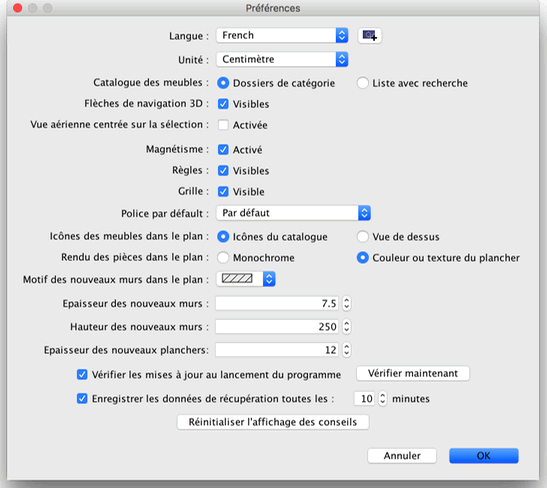
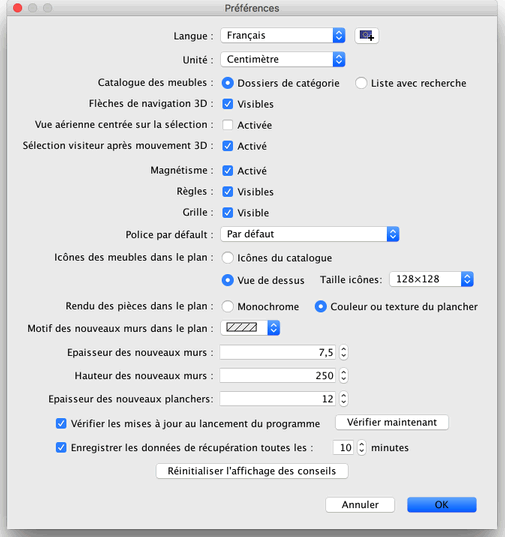
Updated help for version 5.5
git-svn-id: https://svn.code.sf.net/p/sweethome3d/code/trunk@6162 03e323e1-6c6c-46a5-9f71-c4ce5d8c6204

diff --git a/com/eteks/sweethome3d/viewcontroller/resources/help/fr/editingPreferences.html b/com/eteks/sweethome3d/viewcontroller/resources/help/fr/editingPreferences.html
@@ -33,15 +33,29 @@
 	    de Sweet Home 3D et le bouton &agrave; sa droite d'importer des fichiers de langues avec une extensions SH3L.<br>
 	    La liste d&eacute;roulante <i>Unit&eacute;</i> vous permet de choisir l'unit&eacute; utilis&eacute;e
 	    pour dessiner les r&egrave;gles et la grille du plan du
-	    logement, ainsi que pour afficher les longueurs et les aires.	Pour le syst&egrave;me m&eacute;trique, vous pouvez choisir le <i>Millim&egrave;tre</i>, le <i>Centim&egrave;tre</i> ou le  <i>M&egrave;tre</i>, et le syst&egrave;me imp&eacute;rial propose les deux unit&eacute;s suivantes&nbsp;: l'unit&eacute; <i>Pouce/D&eacute;cimales</i> qui affiche une longueur seulement en pouces suivie des d&eacute;cimales de pouce, comme dans <b>250.122&quot;</b> et l'unit&eacute; <i>Pied/Pouce/Fraction</i> qui affiche une longueur en pieds et pouces suivie de la fraction d'un huiti&egrave;me de pouce la plus proche, comme dans <b>20'10&#8539;&quot;</b>. Dans le dernier cas, une partie fractionnaire saisie avec des d&eacute;cimales et une valeur en pouce sup&eacute;rieure ou &eacute;gale &agrave; 12 seront automatiquement converties&nbsp;; par exemple, si vous saisissez <b>15.75</b>, le programme comprendra <b>1'3&#190&quot;</b>, et pour  <b>2'15</b>, ce sera interpr&eacute;t&eacute; comme <b>3'3&quot;</b>. Vous pouvez utiliser aussi le symbole <b>/</b> dans la fraction apr&egrave;s une valeur en pouce, comme dans <b>1 3/4</b>, que le programme interpr&eacute;tera comme <b>1&#190&quot;</b>. Pour les aires, l'unit&eacute; <i>Pied/Pouce/Fraction</i> affiche toujours la valeur la plus proche en pieds carr&eacute;, tandis que l'unit&eacute; <i>Pouce/D&eacute;cimales</i> affiche des d&eacute;cimales 
+	    logement, ainsi que pour afficher les longueurs et les aires.	Pour le syst&egrave;me m&eacute;trique, vous pouvez choisir le <i>Millim&egrave;tre</i>, 
+	    le <i>Centim&egrave;tre</i> ou le  <i>M&egrave;tre</i>, et le syst&egrave;me imp&eacute;rial propose les deux unit&eacute;s suivantes&nbsp;: 
+	    l'unit&eacute; <i>Pouce/D&eacute;cimales</i> qui affiche une longueur seulement en pouces suivie des d&eacute;cimales de pouce, comme dans <b>250.122&quot;</b> 
+	    et l'unit&eacute; <i>Pied/Pouce/Fraction</i> qui affiche une longueur en pieds et pouces suivie de la fraction d'un huiti&egrave;me de pouce la plus proche, 
+	    comme dans <b>20'10&#8539;&quot;</b>. Dans le dernier cas, une partie fractionnaire saisie avec des d&eacute;cimales et une valeur en pouce sup&eacute;rieure 
+	    ou &eacute;gale &agrave; 12 seront automatiquement converties&nbsp;; par exemple, si vous saisissez <b>15.75</b>, le programme comprendra <b>1'3&#190&quot;</b>, 
+	    et pour  <b>2'15</b>, ce sera interpr&eacute;t&eacute; comme <b>3'3&quot;</b>. Vous pouvez utiliser aussi le symbole <b>/</b> dans la fraction apr&egrave;s une valeur en pouce, 
+	    comme dans <b>1 3/4</b>, que le programme interpr&eacute;tera comme <b>1&#190&quot;</b>. Pour les aires, l'unit&eacute; <i>Pied/Pouce/Fraction</i> affiche toujours 
+	    la valeur la plus proche en pieds carr&eacute;, tandis que l'unit&eacute; <i>Pouce/D&eacute;cimales</i> affiche des d&eacute;cimales 
 	    si besoin.</p>
-<p> Les boutons radio <i>Dossiers de cat&eacute;gorie </i>et <i>Liste 
+		<p> Les boutons radio <i>Dossiers de cat&eacute;gorie </i>et <i>Liste 
           avec recherche </i>permettent de choisir le mode d'affichage du catalogue 
-          de meubles dans chaque <a href="ui.html">fen&ecirc;tre Sweet Home 3D</a>.        </p>
-	    <p>	      La bo&icirc;te &agrave; cocher <i>Fl&egrave;ches de navigation 3D</i> permet d'afficher ou non les boutons en forme de fl&egrave;ches d'aide 
+          de meubles dans chaque <a href="ui.html">fen&ecirc;tre Sweet Home 3D</a>.</p>
+	    <p>La bo&icirc;te &agrave; cocher <i>Fl&egrave;ches de navigation 3D</i> permet d'afficher ou non les boutons en forme de fl&egrave;ches d'aide 
           &agrave; la <a href="editing3DView.html">navigation dans la vue 3D</a>.<br>
-          Quand elle est activ&eacute;e, l'option <i>Vue a&eacute;rienne centr&eacute;e sur la s&eacute;lection</i> centrera la vue a&eacute;rienne 3D sur les &eacute;l&eacute;ments s&eacute;lectionn&eacute;s dans le plan 2D. Si aucun &eacute;l&eacute;ment n'est s&eacute;lectionn&eacute; ou si cette option est d&eacute;sactiv&eacute;e, 
-          la vue a&eacute;rienne sera centr&eacute;e sur le mileu du logement, qui peut changer en fonction de son contenu.</p>
+          Quand elle est activ&eacute;e, l'option <i>Vue a&eacute;rienne centr&eacute;e sur la s&eacute;lection</i> centrera 
+          la vue a&eacute;rienne 3D sur les &eacute;l&eacute;ments s&eacute;lectionn&eacute;s dans le plan 2D. 
+          Si aucun &eacute;l&eacute;ment n'est s&eacute;lectionn&eacute; ou si cette option est d&eacute;sactiv&eacute;e, 
+          la vue a&eacute;rienne sera centr&eacute;e sur le mileu du logement, qui peut changer en fonction de son contenu.<br>
+          Quand elle est activ&eacute;e, l'option <i>S&eacute;lection visiteur apr&egrave;s mouvement 3D</i> entra&icirc;nera 
+          une s&eacute;lection et un affichage du visiteur virtuel dans le plan 2D &agrave; chaque fois que vous faites un mouvement 
+          dans la vue 3D en mode <i>Visite virtuelle</i>. D&eacute;s&eacute;lectionnez cette option si vous ne voulez pas perdre 
+          la s&eacute;lection en cours dans le plan et/ou modifier la zone visible du plan &agrave; chaque mouvement dans la vue 3D.</p>
 	    <p>La bo&icirc;te &agrave; cocher <i>Magn&eacute;tisme</i> active ou 
           d&eacute;sactive le magn&eacute;tisme utilis&eacute; dans le plan du 
           logement au cours du positionnement des meubles, et du dessin des murs, des pi&egrave;ces et des cotes.<br>
@@ -50,10 +64,16 @@
           &agrave; gauche du plan.<br>
           La bo&icirc;te &agrave; cocher <i>Grille</i> permet de rendre visible 
           ou invisible la grille affich&eacute;e sous le plan.<br>
-          La liste d&eacute;roulante <i>Police par d&eacute;faut</i> permet de choisir la police de caract&egrave;re utilis&eacute;e pour les textes affich&eacute;s dans le plan (i.e. nom des <a href="editingFurniture.html">meubles</a>, nom et superficie des <a href="editingRooms.html">pi&egrave;ces</a>, longueur des <a href="editingDimensions.html">cotes</a> et police par d&eacute;faut des <a href="addingTexts.html">textes</a>).<br>
+          La liste d&eacute;roulante <i>Police par d&eacute;faut</i> permet de choisir la police de caract&egrave;re utilis&eacute;e 
+          pour les textes affich&eacute;s dans le plan (i.e. nom des <a href="editingFurniture.html">meubles</a>, nom et superficie 
+          des <a href="editingRooms.html">pi&egrave;ces</a>, longueur des <a href="editingDimensions.html">cotes</a> 
+          et police par d&eacute;faut des <a href="addingTexts.html">textes</a>).<br>
           Les boutons radio <i>Ic&ocirc;nes du catalogue</i> et <i>Vue de dessus</i> 
           permettent de choisir comment seront dessin&eacute;s les meubles dans 
-          le plan (voir les images ci-dessous).<br>
+          le plan (voir les images ci-dessous). Quand l'option <i>Vue de dessus</i> est s&eacute;lectionn&eacute;e, la liste d&eacute;roulante 
+          <i>Taille ic&ocirc;nes</i> vous permet de choisir la taille en pixel des ic&ocirc;nes dessin&eacute;es dans le plan 2D. 
+          Une taille plus grande donnera un meilleur r&eacute;sultat dans les plans dessin&eacute;s &agrave; l'&eacute;cran, imprim&eacute;s 
+          et export&eacute;s au format SVG, mais requ&eacute;rera plus de m&eacute;moire pour fonctionner.<br>
           Les boutons radio <i></i><i>Monochrome</i> et <i>Couleur ou texture 
           du plancher</i> permettent de choisir si les pi&egrave;ces doivent &ecirc;tre 
           remplies dans le plan avec la couleur ou de la texture que vous avez 
@@ -64,9 +84,11 @@
 	        une fois que le panneau des pr&eacute;f&eacute;rences sera ferm&eacute;.<br>
           La valeur de la <i>Hauteur des nouveaux murs</i> d&eacute;termine la hauteur des futurs murs.<br>
           La valeur de l'<i>Epaisseur des nouveaux planchers</i> d&eacute;termine l'&eacute;paisseur des planchers des futurs niveaux.</p>
-<p>Si elle est s&eacute;lectionn&eacute;e, l'option <i>V&eacute;rifier les mises &agrave; jour au lancement du programme</i> v&eacute;rifiera si des mises &agrave; jours de Sweet Home 3D sont disponibles ou non &agrave; chaque fois que le programme est  lanc&eacute;, 
-  et affichera des informations sur celles-ci dans une bo&icirc;te de dialogue. Cette option v&eacute;rifie aussi la disponibilit&eacute; de mises &agrave; jours pour les biblioth&egrave;ques de meubles (fichiers SH3F), les biblioth&egrave;ques de textures (fichiers SH3T), les fichiers de langues (fichiers SH3L) et les plug-ins 
-  (fichiers SH3P) que vous avez install&eacute;s, en fonction de leur configuration. </p>	  
+		<p>Si elle est s&eacute;lectionn&eacute;e, l'option <i>V&eacute;rifier les mises &agrave; jour au lancement du programme</i> v&eacute;rifiera si des mises &agrave; jours 
+		  de Sweet Home 3D sont disponibles ou non &agrave; chaque fois que le programme est  lanc&eacute;, 
+  		  et affichera des informations sur celles-ci dans une bo&icirc;te de dialogue. Cette option v&eacute;rifie aussi la disponibilit&eacute; de mises &agrave; jours 
+  		  pour les biblioth&egrave;ques de meubles (fichiers SH3F), les biblioth&egrave;ques de textures (fichiers SH3T), les fichiers de langues (fichiers SH3L) et les plug-ins 
+  		  (fichiers SH3P) que vous avez install&eacute;s, en fonction de leur configuration. </p>	  
 	  <p>La valeur du champ associ&eacute; &agrave; la bo&icirc;te &agrave; 
           cocher <i>Enregistrer les donn&eacute;es de r&eacute;cup&eacute;ration</i> 
           d&eacute;termine le d&eacute;lai en minutes qui s'&eacute;coule entre 
@@ -151,7 +173,8 @@
               <td width="16"><p>&#149;</p></td>
               <td><p>Les  informations sur les mises &agrave; jour ne peuvent &ecirc;tre obtenues que si votre ordinateur a acc&egrave;s &agrave; Internet. 
               En cas de doute, cliquez sur le bouton <i>V&eacute;rifier maintenant</i> pour afficher les mises &agrave; jour disponibles, 
-              ou un message sp&eacute;cifiant qu'aucune mise &agrave; jour n'est disponible, ou un message d'erreur stipulant que les mises &agrave; jour n'ont pu &ecirc;tre lues.</p></td>
+              ou un message sp&eacute;cifiant qu'aucune mise &agrave; jour n'est disponible, ou un message d'erreur stipulant que les mises &agrave; jour 
+              n'ont pu &ecirc;tre lues.</p></td>
             </tr>
           </table></td>
 	</tr>

diff --git a/com/eteks/sweethome3d/viewcontroller/resources/help/fr/editingFurniture.html b/com/eteks/sweethome3d/viewcontroller/resources/help/fr/editingFurniture.html
@@ -72,14 +72,15 @@
                       <td nowrap><p>1.</p>
                       </td>
                       <td><p>L'indicateur de rotation montre le coin que vous pouvez glisser-d&eacute;poser pour tourner le meuble
-                          s&eacute;lectionn&eacute;.</p>
+                          s&eacute;lectionn&eacute; autour de l'axe vertical.</p>
                       </td>
                     </tr>
                     <tr valign="top">
                       <td nowrap><p>2.</p>
                       </td>
                       <td><p>L'indicateur d'&eacute;l&eacute;vation montre le coin que vous pouvez glisser-d&eacute;poser pour monter ou descendre
-                          le meuble s&eacute;lectionn&eacute; (par rapport &agrave; l'&eacute;l&eacute;vation du niveau auquel le meuble a &eacute;t&eacute; ajout&eacute; si le logement contient <a href="addingLevels.html">plusieurs niveaux</a>).</p>
+                          le meuble s&eacute;lectionn&eacute; (par rapport &agrave; l'&eacute;l&eacute;vation du niveau auquel le meuble a 
+                          &eacute;t&eacute; ajout&eacute; si le logement contient <a href="addingLevels.html">plusieurs niveaux</a>).</p>
                       </td>
                     </tr>
                     <tr valign="top">
@@ -87,10 +88,10 @@
                       </td>
                       <td><p>L'indicateur de hauteur montre le coin que vous pouvez 
                   glisser-d&eacute;poser pour modifier la hauteur du meuble s&eacute;lectionn&eacute;.<br>
-                  Pour les lumi&egrave;res (soit une source lumineuse ou une lampe 
-                  contenant des sources lumineuses), cet indicateur devient un 
-                  variateur de lumi&egrave;re. Si vous voulez modifier la hauteur 
-                  de cette lumi&egrave;re, &eacute;ditez ses attributs comme indiqu&eacute; 
+                  Si l'angle de rotation du meuble autour d'un axe horizontal n'est pas nul, cet indicateur vous permet de modifier 
+                  cet angle plut&ocirc;t que la hauteur du meuble. Pour les lumi&egrave;res (soit une source lumineuse ou une lampe 
+                  contenant des sources lumineuses), cet indicateur devient un variateur de lumi&egrave;re. Si vous voulez modifier la hauteur 
+                  de ces objets, &eacute;ditez ses attributs comme indiqu&eacute; 
                   dans le paragraphe suivant.</p>
                 </td>
                     </tr>
@@ -98,7 +99,9 @@
                       <td nowrap><p>4.</p>
                       </td>
                       <td><p>L'indicateur de taille montre le coin que vous pouvez glisser-d&eacute;poser pour modifier
-                          la largeur et la profondeur du meuble s&eacute;lectionn&eacute;.</p>
+                          la largeur et la profondeur du meuble s&eacute;lectionn&eacute;. L'utilisation de cet indicateur sur un 
+                          meuble pivot&eacute; autour d'un axe horizontal ou en maintenant la touche <i>Majuscule</i> enfonc&eacute;e
+                          modifiera proportionnellement la largeur, la profondeur et la hauteur du meuble s&eacute;lectionn&eacute;.</p>
                       </td>
                     </tr>
                   </table>
@@ -115,13 +118,14 @@ Les meubles modifi&eacute;s avec la souris sont dessin&eacute;s simultan&eacute;
 	  <p>Un meuble peut &ecirc;tre aussi modifi&eacute;  gr&acirc;ce &agrave; son panneau, en double-cliquant sur ce meuble dans le plan
 	    du logement ou dans la liste des meubles, ou en choisissant <i>Meubles &gt; Modifier...</i> apr&egrave;s l'avoir s&eacute;lectionn&eacute;.</p>
 	    <p align="center"><img src="images/editingFurniture.png" alt="Modification de meubles"></p>
-	    <p>Dans le panneau du meuble, vous pouvez changer son nom, son angle de 
+	    <p>Dans le panneau du meuble, vous pouvez changer son nom, ses angles de 
           rotation, l'abscisse (X) et l'ordonn&eacute;e (Y) de son centre, l'&eacute;l&eacute;vation 
           de sa face inf&eacute;rieure par rapport au sol, sa largeur, sa profondeur, 
           sa hauteur, sa couleur ou sa texture, sa brillance, sa visibilit&eacute;, 
           si son nom doit &ecirc;tre affich&eacute; dans le plan ou non, et le 
           fait que la forme de son mod&egrave;le 3D soit celle par d&eacute;faut 
-          ou son miroir. <br>
+          ou son miroir. Il n'est pas possible de pivoter les portes, les fen&ecirc;tres, les escaliers et les groupes 
+          autour d'un axe horizontal.<br>
 	     Si vous rendez un meuble invisible, il ne sera pas dessin&eacute; dans le plan du logement et dans
 	     la vue 3D, mais il continuera d'appara&icirc;tre dans
 	    la liste des meubles pour vous permettre de le rendre &agrave; nouveau visible ult&eacute;rieurement.

diff --git a/com/eteks/sweethome3d/viewcontroller/resources/help/en/editingFurniture.html b/com/eteks/sweethome3d/viewcontroller/resources/help/en/editingFurniture.html
@@ -65,7 +65,8 @@
                     <tr valign="top">
                       <td nowrap><p>1.</p>
                       </td>
-                      <td><p>The rotation indicator shows the corner you can drag  to rotate  the selected piece.</p>
+                      <td><p>The rotation indicator shows the corner you can drag  to rotate  the selected piece 
+                      around the vertical axis.</p>
                       </td>
                     </tr>
                     <tr valign="top">
@@ -81,17 +82,19 @@
                       </td>
                       <td><p>The height indicator shows the corner you can drag 
                   to change the height of the selected piece.<br>
-                  If the piece of furniture is a light source or a lamp containing 
+                    If the rotation angle of the  piece around an horizontal axis isn't zero, this indicator lets you update 
+                    this angle rather than the height of the  piece. If the piece of furniture is a light source or a lamp containing 
                   light sources, this indicator is a light dimmer. If you want 
-                  to modify the height of such objects, edit its attributes as indicated 
+                  to modify the height  of such objects, edit its attributes as indicated 
                   in the next paragraph.</p>
-                      </td>
+                  	  </td>
                     </tr>
                     <tr valign="top">
                       <td nowrap><p>4.</p>
                       </td>
                       <td><p>The size indicator shows the corner you can drag  to change the width and the depth
-                          of the selected piece.</p>
+                          of the selected piece. Dragging this indicator  on a horizontally rotated piece or while pressing the <i>Shift</i> 
+                          key will proportionally update the width, depth and height of the selected piece. </p>
                       </td>
                     </tr>
                   </table>
@@ -111,9 +114,9 @@
 	    <p>In the furniture pane, you may change its name, the abscissa (X) and 
           the ordinate (Y) of its center, the elevation of its bottom from the 
           floor, its width, its depth, its height, its color or its texture, its 
-          shininess, its visibility, its rotation angle, whether its name should 
+          shininess, its visibility, its rotation angles, whether its name should 
           be displayed in plan or not, and whether its 3D model shape should be 
-          mirrored.<br>
+          mirrored. It's not possible to rotate doors, windows, staircases and groups around an horizontal axis.<br>
 	    If you make a piece invisible, it won't be drawn in the home plan
 	    and the 3D view, but it will
 	    still appear in the furniture list to let you make it visible again later.<br>

diff --git a/com/eteks/sweethome3d/viewcontroller/resources/help/en/editingPreferences.html b/com/eteks/sweethome3d/viewcontroller/resources/help/en/editingPreferences.html
@@ -54,8 +54,12 @@
         view</a>.<br>
         When enabled, the  <i>Aerial view centered on selection</i> option will center the 3D aerial view 
         on the selected items in the 2D plan. If no item is selected or if this option is disabled, 
-        the aerial view will be centered on the center of the home, that may vary according to the items it contains. </p>
-        <p> The <i>Magnetism</i> check box enables or disables the magnetism used 
+        the aerial view will be centered on the center of the home, that may vary according to the items it contains. <br>
+        When enabled, the <i>Select visitor in plan at 3D move</i> option will	select and display the virtual visitor 
+        drawn in the 2D plan each time you make a move in the 3D view in <i>Virtual visit</i> mode. 
+        You should unselect this option if you don't want to lose the current selection in the plan and/or change 
+        the visible part of the plan at each move in the 3D view.</p>
+      <p>The <i>Magnetism</i> check box enables or disables the magnetism used 
           in the home plan during <a href="drawingWalls.html">walls drawing</a> 
           and <a href="editingFurniture.html">furniture placing</a>.<br>
           The <i>Rulers</i> check box allows to make the rulers around the plan 
@@ -66,7 +70,10 @@
         (i.e. <a href="editingFurniture.html">furniture</a> name, <a href="editingRooms.html">rooms</a> name and area, 
         <a href="editingDimensions.html">dimension lines</a> length and default font of free <a href="addingTexts.html">texts</a>).<br>
           The <i>Catalog icons</i> and <i>Top view</i> radio buttons let you choose 
-          how the furniture should be drawn in the plan (see images below).<br>
+          how the furniture should be drawn in the plan (see images below). When the <i>Top view</i> option is selected, 
+          the <i>Icon size</i> drop down list lets you select the size in pixels of the icons drawn in the 2D plan. 
+          Higher sizes will give nicer plans when drawn at screen, printed and exported to SVG format, 
+          but will require more memory to work.<br>
           The <i>Monochrome</i> and <i>Floor color or texture</i> radio buttons 
           let you choose whether rooms should be drawn in plan filled with the 
           color or texture you chose for their floor, or with a grey color (printed 

diff --git a/com/eteks/sweethome3d/viewcontroller/resources/help/fr/creatingHome.html b/com/eteks/sweethome3d/viewcontroller/resources/help/fr/creatingHome.html
@@ -25,13 +25,15 @@
 </table>
 <table width="100%" border="0" cellspacing="0" cellpadding="3">
 	<tr>
-	<td><p>Pour cr&eacute;er un logement,
-	      utilisez simplement le logement cr&eacute;&eacute; par d&eacute;faut au lancement de Sweet Home 3D ou choisissez <i>Fichier &gt; Nouveau</i>.<br>
+	<td><p>Pour cr&eacute;er un logement, utilisez simplement le document vide cr&eacute;&eacute; par d&eacute;faut 
+		  au lancement de Sweet Home 3D, choisissez le menu <i>Fichier &gt; Nouveau</i> ou s&eacute;lectionnez 
+		  une des d&eacute;mos disponibles dans la bo&icirc;te de dialogue affich&eacute;e par le menu 
+		  <i>Fichier &gt; Nouveau avec d&eacute;mo...</i>.<br>
           Une fois qu'un logement est cr&eacute;&eacute;, vous pouvez <a href="drawingWalls.html">dessiner 
           ses murs</a>, y <a href="addingFurniture.html">ajouter des portes, des 
           fen&ecirc;tres et des meubles</a>, <a href="drawingRooms.html">d&eacute;finir 
-          ses pi&egrave;ces</a> &agrave; partir de ses murs, cr&eacute;er des <a href="addingLevels.html">niveaux suppl&eacute;mentaires</a>, ajuster sa <a href="editingCompass.html">position 
-          g&eacute;ographique</a>, ajouter <a href="drawingDimensions.html">des 
+          ses pi&egrave;ces</a> &agrave; partir de ses murs, cr&eacute;er des <a href="addingLevels.html">niveaux suppl&eacute;mentaires</a>, 
+          ajuster sa <a href="editingCompass.html">position g&eacute;ographique</a>, ajouter <a href="drawingDimensions.html">des 
           cotes</a>, dessiner des <a href="drawingPolylines.html">lignes ou des courbes</a> et ajouter <a href="addingTexts.html">des textes</a> sur son plan. 
           Comme la vue 3D est toujours&nbsp;synchronis&eacute;e avec les modifications 
           effectu&eacute;es dans le plan du logement, n'h&eacute;sitez pas &agrave; 

diff --git a/com/eteks/sweethome3d/viewcontroller/resources/help/en/creatingHome.html b/com/eteks/sweethome3d/viewcontroller/resources/help/en/creatingHome.html
@@ -27,7 +27,9 @@
 <table width="100%" border="0" cellspacing="0" cellpadding="3">
 	<tr>
 	<td><p>To create a  home,
-	      simply use the default home created at Sweet Home 3D launch or choose <i>File &gt; New</i>.<br>
+	      simply use the default empty document created at Sweet Home 3D launch, 
+	      choose <i>File &gt; New</i> or select one of the demos available in the dialog box 
+	      displayed by <i>File &gt; New from demo</i>.<br>
           Once a home is created, you may <a href="drawingWalls.html">draw its 
           walls</a>, <a href="addingFurniture.html">add doors, windows and furniture</a> 
           to it, <a href="drawingRooms.html">define its rooms</a> from the drawn walls, 
